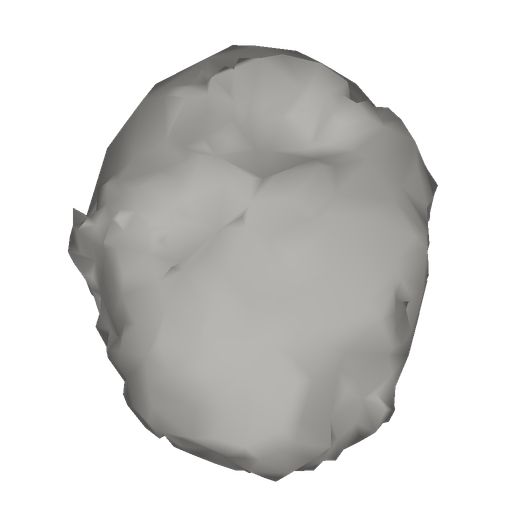
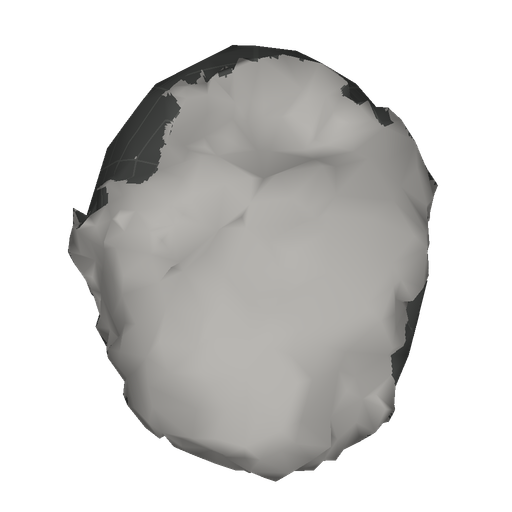
Mark Wild 2 estimated terrain with the shared coverage grid

Changed region(s): [[0.125, 0.0625, 0.625, 0.4375], [0.75, 0.5625, 0.8438, 0.75], [0.6562, 0.125, 0.7812, 0.25]]

diff --git a/src/planets/comet-81p/SOURCE.md b/src/planets/comet-81p/SOURCE.md
@@ -6,6 +6,8 @@ The [full Cartesian plate model](https://pdssbn.astro.umd.edu/holdings/sdu-c-nav
 
 The source flags distinguish 6,432 observed vertices and 2,329 ellipsoid vertices. Of its plates, 12,364 join observed vertices, 4,338 belong to the ellipsoid, and 816 connect the two. The label explicitly gives the connecting plates no physical meaning beyond joining the segments. Each of the 6,432 observed-only vertices has a distinct full-model counterpart within 11.22 mm (mean 3.49 mm), but the releases have different connectivity along their joins; it is not the earlier open mesh with an arbitrary cap attached.
 
+The prepared material maps those original plate flags into a 512 × 256 equirectangular raster before filtering or lighting. Observed plates (flag 0) retain neutral gray; ellipsoid plates (1) and joining plates (2) receive cssEarth's shared gray coverage grid. The grid identifies missing observations on published estimated geometry. It does not imply a measured surface texture. The radial projection preserves observed-versus-estimated classification at all 17,518 source plate centers; this finite check is not an exhaustive subpixel boundary proof. Raster resolution, filtering and mesh reduction limit boundary precision. Both lighting atlases, the thumbnail, context image and navigation marker derive from the same material. This model lens has no minimap.
+
 The full source is one closed, consistently outward-wound component with Euler characteristic 2. Reduction retains 992 triangles and original published positions, closed topology, and volume within 3% of the source full model. The simplifier's 55 m allowance produces a 54.33 m library error estimate, not a measured maximum or observational uncertainty. The previous 996-leaf open-surface qualification is historical; current source-fit, browser and drag evidence is recorded in [the completion record](../../../docs/comets/WILD2-COMPLETION.md).
 
 The [catalogue](https://pdssbn.astro.umd.edu/holdings/sdu-c-navcam-5-wild2-shape-model-v2.1/catalog/dataset.cat) reports roughly half-nucleus observation coverage, 50 m horizontal resolution and 6 m vertical precision. Those values describe the observed source terrain, not the inferred side or this reduced display. The viewer labels the completed shape and explicitly identifies the estimated far side. Neutral gray is a model material, not albedo or spacecraft imagery. Close-view facets and texture-cell artifacts are not observed geological detail.

diff --git a/src/planets/comet-81p/README.md b/src/planets/comet-81p/README.md
@@ -1,5 +1,5 @@
 # Wild 2 completed shape model
 
-The NASA PDS full model combines measured Stardust terrain with a fitted ellipsoid on the unseen side. It renders as one closed 992-leaf mesh through the shared object adapter. The viewer identifies the estimated far side.
+The NASA PDS full model combines measured Stardust terrain with a fitted ellipsoid on the unseen side. It renders as one closed 992-leaf mesh through the shared object adapter. The shared gray coverage grid marks the estimated ellipsoid and its joining plates; measured terrain keeps the neutral material.
 
 See [SOURCE.md](SOURCE.md) for provenance and interpretation, and the [completion record](../../../docs/comets/WILD2-COMPLETION.md) for current geometry, browser and drag evidence. The display has neutral model coloring and an arbitrary fixed rotational phase.
